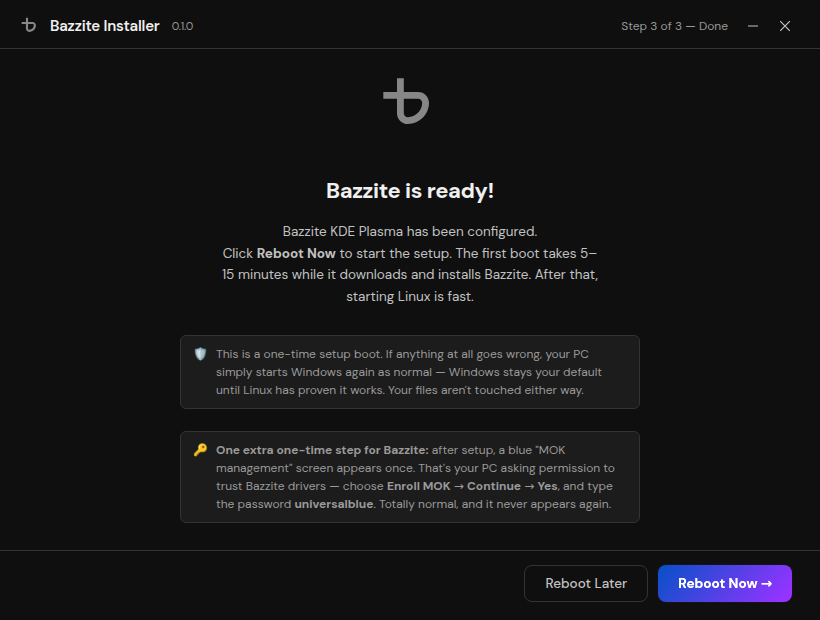
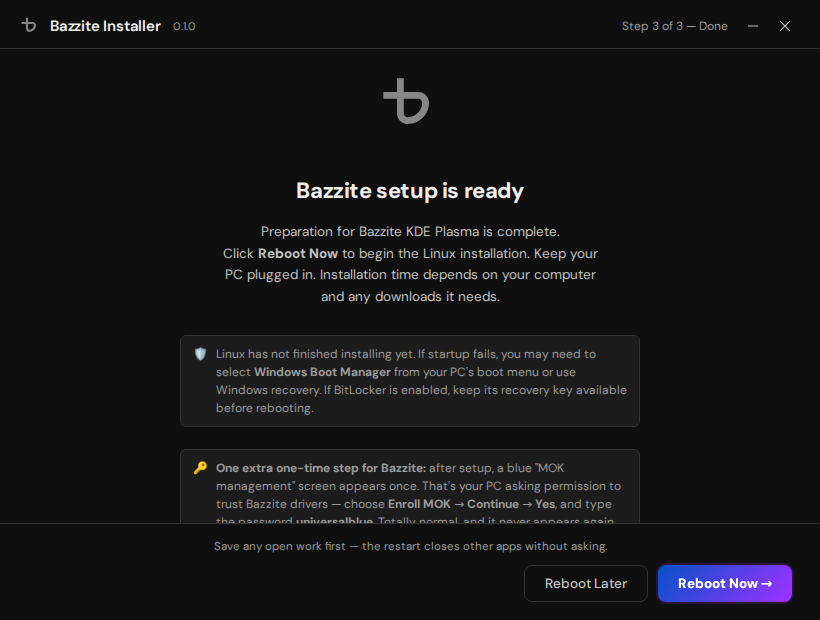
Describe prepared setup and recovery limits before reboot

diff --git a/app/frontend/src/screens/done.js b/app/frontend/src/screens/done.js
@@ -22,16 +22,16 @@ export function renderDoneScreen() {
   const hero = el('div', 'done-hero');
   hero.innerHTML = `
     <div class="done-icon">${doneMark()}</div>
-    <div class="done-title">${distroName()} is ready!</div>
+    <div class="done-title">${distroName()} setup is ready</div>
     <div class="done-body">
-      ${state.selected?.name || distroName()} ${state.selected?.desktopName || ''} has been configured.<br>
-      Click <strong>Reboot Now</strong> to start the setup. The first boot takes 5–15 minutes
-      while it downloads and installs ${distroName()}. After that, starting Linux is fast.
+      Preparation for ${state.selected?.name || distroName()} ${state.selected?.desktopName || ''} is complete.<br>
+      Click <strong>Reboot Now</strong> to begin the Linux installation. Keep your PC plugged in.
+      Installation time depends on your computer and any downloads it needs.
     </div>
     <div style="display:flex;gap:8px;align-items:flex-start;font-size:12px;color:var(--text-muted);margin-top:14px;background:var(--bg-card);border:1px solid var(--border);border-radius:6px;padding:9px 12px;text-align:left;max-width:460px">
-      <span>🛡</span><span>This is a one-time setup boot. If anything at all goes wrong,
-      your PC simply starts Windows again as normal — Windows stays your default
-      until Linux has proven it works. Your files aren't touched either way.</span>
+      <span>🛡</span><span>Linux has not finished installing yet. If startup fails, you may need
+      to select <strong>Windows Boot Manager</strong> from your PC's boot menu or use Windows recovery.
+      If BitLocker is enabled, keep its recovery key available before rebooting.</span>
     </div>
     ${state.selected?.mokEnroll ? `
     <div style="display:flex;gap:8px;align-items:flex-start;font-size:12px;color:var(--text-muted);margin-top:8px;background:var(--bg-card);border:1px solid var(--border);border-radius:6px;padding:9px 12px;text-align:left;max-width:460px">
@@ -53,11 +53,12 @@ export function renderDoneScreen() {
   // other apps do not get a save prompt. The audit flagged that nothing
   // warned about it; one quiet line above the buttons does.
   const saveNote = el('div');
-  saveNote.style.cssText = 'font-size:11.5px;color:var(--text-muted);text-align:center;margin-top:10px';
+  saveNote.style.cssText = 'font-size:11.5px;color:var(--text-muted);text-align:center;flex-basis:100%';
   saveNote.textContent = 'Save any open work first — the restart closes other apps without asking.';
-  screen.appendChild(saveNote);
 
   const footer = el('div', 'footer');
+  footer.style.flexWrap = 'wrap';
+  footer.appendChild(saveNote);
   footer.appendChild(btn('Reboot Later', 'btn btn-ghost', () => Quit()));
   footer.appendChild(btn('Reboot Now →', 'btn btn-primary', () => Reboot()));
   wrap.appendChild(footer);

diff --git a/tests/gui/gui.spec.js b/tests/gui/gui.spec.js
@@ -77,7 +77,16 @@ test('installer — done screen', async ({ page }) => {
   await pw.nth(0).fill('hunter2');
   await pw.nth(1).fill('hunter2');
   await page.locator('#install-btn').click();
-  await expect(page.locator('.done-title')).toContainText('ready', { timeout: 5000 });
+  await expect(page.locator('.done-title')).toHaveText('TunaOS setup is ready', { timeout: 5000 });
+  await expect(page.locator('.done-body')).toContainText('begin the Linux installation');
+  await expect(page.locator('.done-hero')).toContainText('Linux has not finished installing yet');
+  await expect(page.locator('.done-hero')).toContainText('Windows Boot Manager');
+  await expect(page.locator('.done-hero')).toContainText('keep its recovery key available');
+  await expect(page.locator('.done-hero')).not.toContainText('5–15 minutes');
+  await expect(page.locator('.done-hero')).not.toContainText('anything at all');
+  await expect(page.locator('.done-hero')).not.toContainText("Your files aren't touched");
+  await expect(page.getByRole('button', { name: 'Reboot Now →' })).toBeVisible();
+  await expect(page.getByRole('button', { name: 'Reboot Later' })).toBeVisible();
   await shot(page, '04-done');
 });
 

diff --git a/tests/gui/branded-walkthrough.spec.js b/tests/gui/branded-walkthrough.spec.js
@@ -138,7 +138,11 @@ for (const id of fs.readdirSync(BRANDS_DIR).filter(f =>
       await fillForm(page);
       await page.locator('#install-btn').click();
       await expect(page.locator('.done-title'))
-        .toContainText(`${brand.name} is ready`, { timeout: 5000 });
+        .toContainText(`${brand.name} setup is ready`, { timeout: 5000 });
+      await expect(page.getByText('Save any open work first', { exact: false })).toBeInViewport();
+      await expect(page.getByRole('button', { name: 'Reboot Now →' })).toBeInViewport();
+      await expect(page.locator('.done-hero')).toContainText('Linux has not finished installing yet');
+      await expect(page.locator('.done-hero')).not.toContainText('5–15 minutes');
       await shot(page, id, '03-done');
     });
 

diff --git a/tests/gui/done-truth.config.js b/tests/gui/done-truth.config.js
@@ -1,0 +1,11 @@
+import base from './playwright.config.js';
+export default {
+  ...base,
+  use: { ...base.use, baseURL: 'http://127.0.0.1:5664' },
+  webServer: {
+    command: './node_modules/.bin/http-server ../../app/frontend/dist -p 5664 -s -c-1',
+    url: 'http://127.0.0.1:5664',
+    reuseExistingServer: false,
+    timeout: 30000,
+  },
+};
